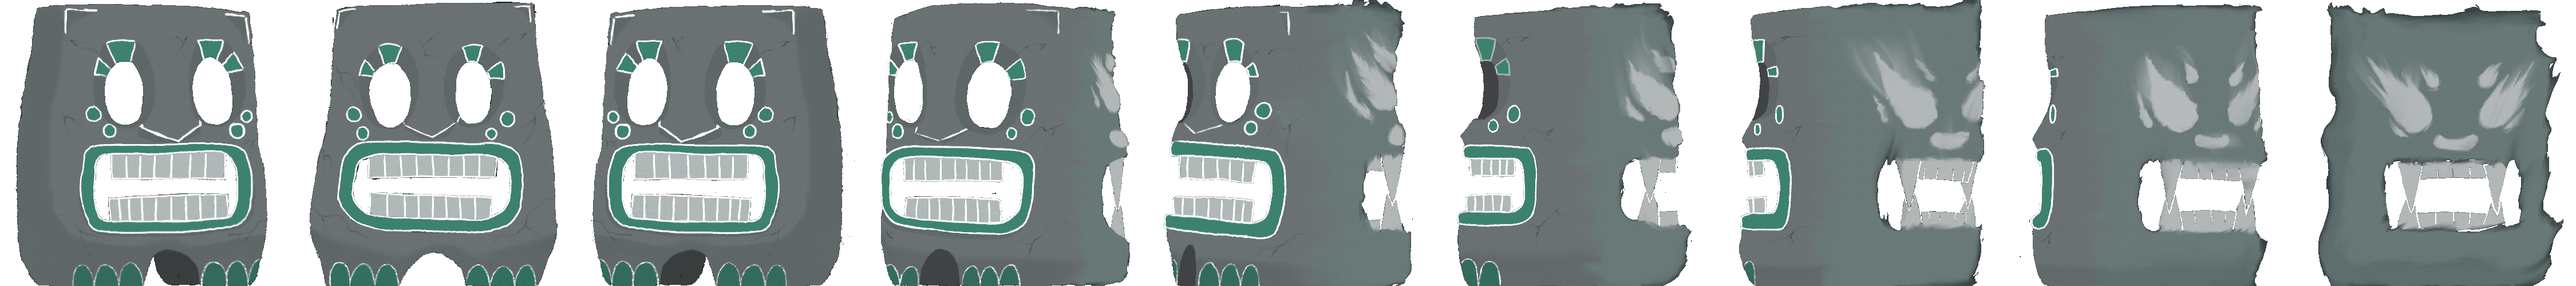
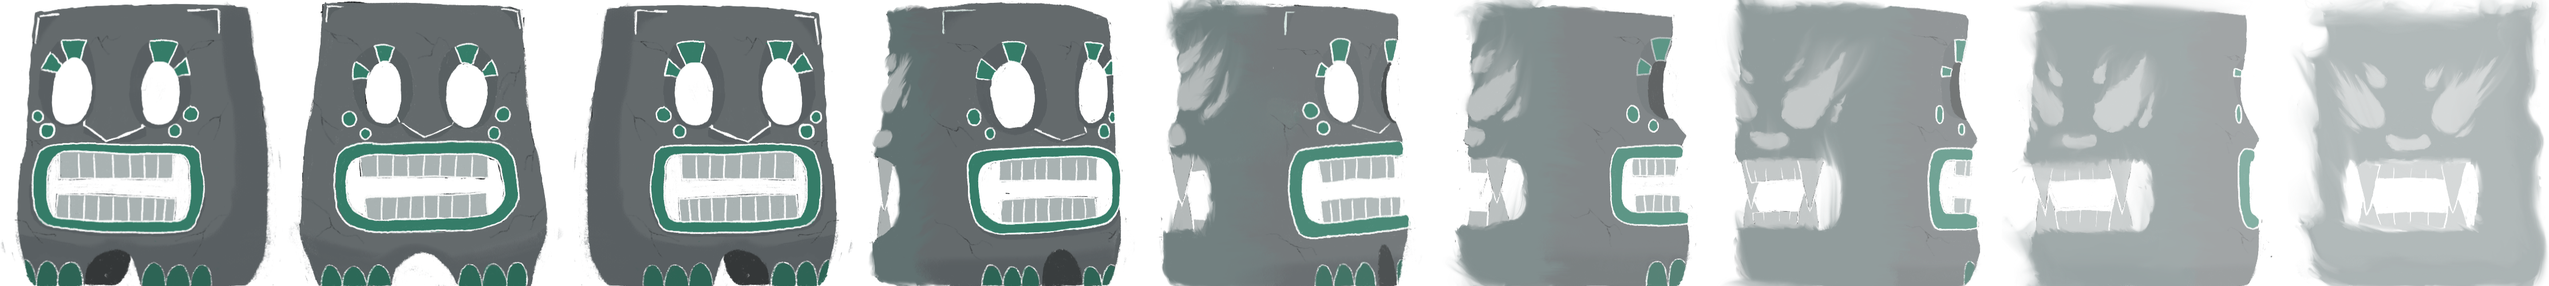
Added advanced totem animations

diff --git a/Physics/Physics/core/src/main/java/edu/cornell/cis3152/physics/level_player/enemies/Totem.java b/Physics/Physics/core/src/main/java/edu/cornell/cis3152/physics/level_player/enemies/Totem.java
@@ -1,13 +1,11 @@
 package edu.cornell.cis3152.physics.level_player.enemies;
 
-import com.badlogic.gdx.graphics.Color;
 import com.badlogic.gdx.graphics.Texture;
 import com.badlogic.gdx.math.Vector2;
 import com.badlogic.gdx.physics.box2d.BodyDef;
 import com.badlogic.gdx.utils.JsonValue;
 import edu.cornell.gdiac.assets.AssetDirectory;
 import edu.cornell.gdiac.graphics.SpriteBatch;
-import edu.cornell.gdiac.graphics.SpriteSheet;
 
 import java.util.HashSet;
 import java.util.Set;
@@ -21,32 +19,113 @@ public class Totem extends Enemy {
 
     public static final int FRAME_SIZE = 500;
     public static final int TRANSITION_TOTAL_FRAMES = 9;
-    public static final int IDLE_TOTAL_FRAMES = 12;
-    public static final int LIGHT_FRAME = 0;
+    public static final int IDLE_TOTAL_FRAMES = 7;
+    public static final int FREEZE_TOTAL_FRAMES = 9;
     private static final int TRANSITION_FRAME_DURATION = 12;
-    private static final int IDLE_FRAME_DURATION = 9;
+    private static final int REVERSE_FRAME_DURATION = 12;
+    private static final int IDLE_FRAME_DURATION = 12;
+    private static final int FREEZE_FRAME_DURATION = 3;
     private final Texture transitionAnimationTexture = directory.getEntry("platform-totemLIGHTANIMATION", Texture.class);
+    private final Texture reverseTransitionTexture = directory.getEntry("platform-totemOUTLIGHTANIMATION", Texture.class);
     private final Texture idleAnimationTexture = directory.getEntry("platform-totemIDLEANIMATION", Texture.class);
+    private final Texture freezeLeftAnimationTexture = directory.getEntry("platform-totemFREEZELEFTANIMATION", Texture.class);
+    private final Texture freezeRightAnimationTexture = directory.getEntry("platform-totemFREEZERIGHTANIMATION", Texture.class);
+    private final boolean visited;
+    private final List<Totem> linkedTotems = new ArrayList<>();
+    protected EnemyState previousState = EnemyState.OUT_OF_LIGHT;
     private int cdFrameCount = 0;
     private int frameIndex = 0;
-
     private int idleFrameCount = 0;
     private int idleFrameIndex = 0;
-    private final boolean visited;
-
-    public List<Totem> getLinkedTotems() {
-        return linkedTotems;
-    }
     /**
      * Time it takes for a totem to transition from a CD state to a OUT_OF_LIGHT state.
      */
     private int freezeTimer;
-    private final List<Totem> linkedTotems = new ArrayList<>();
+    private boolean freezeRight = false;
+    private int reverseFrameCount = 0;
+    private int reverseFrameIndex = 0;
+    private int cooldownTimer = 30;
+    private boolean timerStart = false;
+    public void resetCooldownTimer() {
+        cooldownTimer = 30;
+    }
+    public int getCooldownTimer() {
+        return cooldownTimer;
+    }
+    public void decrementCooldownTimer() {
+        if (getTimerStart()){
+            cooldownTimer--;
+        }
+        if (cooldownTimer == 0){
+            resetFrames();
+            setState(EnemyState.CD);
+            resetCooldownTimer();
+            stopTimer();
+        }
+    }
 
+    public boolean getTimerStart(){
+        return timerStart;
+    }
+
+    public void beginTimer(){
+        timerStart = true;
+    }
+
+    public void stopTimer(){
+        timerStart = false;
+    }
     public Totem(int id, float units, JsonValue value, AssetDirectory directory, Vector2 position) {
         super(id, units, value, directory, position);
         visited = false;
         setJustCollided(false);
+    }
+
+    @Override
+    public void update() {
+        decrementCooldownTimer();
+        super.update();
+    }
+
+    public int getCdFrameCount() {
+        return cdFrameCount;
+    }
+
+    public int getIdleFrameCount() {
+        return idleFrameCount;
+    }
+
+    public int getReverseFrameCount() {
+        return reverseFrameCount;
+    }
+
+    public EnemyState getPreviousState() {
+        return previousState;
+    }
+
+    @Override
+    public void setState(EnemyState newState) {
+        if (this.getState() != EnemyState.IN_LIGHT){
+            previousState = this.getState();
+        }
+        super.setState(newState);
+    }
+public boolean locked = false;
+    public void lockFreeze(){
+        locked = true;
+    }
+
+    public void unlockFreeze(){
+        locked = false;
+    }
+    public void setFreezeRight(boolean freezeRight) {
+        if (!locked){
+            this.freezeRight = freezeRight;
+        }
+    }
+
+    public List<Totem> getLinkedTotems() {
+        return linkedTotems;
     }
 
     public int getFreezeTimer() {
@@ -64,6 +143,10 @@ public class Totem extends Enemy {
     private void resetFrames() {
         cdFrameCount = 0;
         frameIndex = 0;
+    }
+
+    private void resetReverseFrames() {
+        reverseFrameCount = 0;
     }
 
     private void resetIdleFrames() {
@@ -122,12 +205,29 @@ public class Totem extends Enemy {
     @Override
     public void in_light() {
         stop();
-        resetIdleFrames();
-        resetFrames();
+        if (getPreviousState() == EnemyState.CD) {
+            if (reverseFrameIndex > 0) {
+                reverseFrameCount++;
+                if (reverseFrameCount > REVERSE_FRAME_DURATION){
+                    reverseFrameCount = 0;
+                    reverseFrameIndex--;
+                }
+                frameIndex = reverseFrameIndex;
+            } else {
+                previousState = EnemyState.IN_LIGHT;
+            }
+        } else {
+            cdFrameCount++;
+            frameIndex = (cdFrameCount / FREEZE_FRAME_DURATION);
+            if (frameIndex >= FREEZE_TOTAL_FRAMES) {
+                frameIndex = FREEZE_TOTAL_FRAMES - 1;
+            }
+        }
     }
 
     @Override
     public void out_of_light() {
+        unlockFreeze();
         propagateDirection(this.faceRight, new HashSet<>());
         obstacle.setBodyType(BodyDef.BodyType.DynamicBody);
         move();
@@ -137,6 +237,7 @@ public class Totem extends Enemy {
             idleFrameCount = 0;
         }
         resetFrames();
+        resetReverseFrames();
     }
 
     @Override
@@ -144,15 +245,34 @@ public class Totem extends Enemy {
         float drawX = obstacle.getX() - getWidth() / 2f;
         float drawY = obstacle.getY() - getHeight() / 2f;
         int srcIndex;
+        System.out.println(getState() + ": ");
         switch (getState()) {
             case CD:
                 srcIndex = frameIndex * FRAME_SIZE;
-                batch.draw(transitionAnimationTexture, drawX * getUnits(), drawY * getUnits(), getUnits(), getUnits(), srcIndex, 0, FRAME_SIZE, FRAME_SIZE, !isFacingRight(), false);
+                batch.draw(transitionAnimationTexture, drawX * getUnits(), drawY * getUnits(), getUnits(), getUnits(), srcIndex, 0, FRAME_SIZE, FRAME_SIZE, isFacingRight(), false);
                 break;
+
             case IN_LIGHT:
-                srcIndex = LIGHT_FRAME * FRAME_SIZE;
-                batch.draw(transitionAnimationTexture, drawX * getUnits(), drawY * getUnits(), getUnits(), getUnits(), srcIndex, 0, FRAME_SIZE, FRAME_SIZE, !isFacingRight(), false);
+                if (getPreviousState() == EnemyState.CD) {
+
+                    srcIndex = reverseFrameIndex * FRAME_SIZE;
+                    batch.draw(transitionAnimationTexture, drawX * getUnits(), drawY * getUnits(), getUnits(), getUnits(), srcIndex, 0, FRAME_SIZE, FRAME_SIZE, isFacingRight(), false);
+                } else {
+                    System.out.println(" 261 ");
+                    srcIndex = Math.min(frameIndex, FREEZE_TOTAL_FRAMES - 1) * FRAME_SIZE;
+                    if (freezeRight && isFacingRight()){
+                        batch.draw(freezeLeftAnimationTexture, drawX * getUnits(), drawY * getUnits(), getUnits(), getUnits(), srcIndex, 0, FRAME_SIZE, FRAME_SIZE, false, false);
+                    } else if (freezeRight && !isFacingRight()){
+                        batch.draw(freezeRightAnimationTexture, drawX * getUnits(), drawY * getUnits(), getUnits(), getUnits(), srcIndex, 0, FRAME_SIZE, FRAME_SIZE, true, false);
+                    } else if (!freezeRight && isFacingRight()){
+                        batch.draw(freezeRightAnimationTexture, drawX * getUnits(), drawY * getUnits(), getUnits(), getUnits(), srcIndex, 0, FRAME_SIZE, FRAME_SIZE, false, false);
+                    } else {
+                        batch.draw(freezeLeftAnimationTexture, drawX * getUnits(), drawY * getUnits(), getUnits(), getUnits(), srcIndex, 0, FRAME_SIZE, FRAME_SIZE, true, false);
+
+                    }
+                }
                 break;
+
             case OUT_OF_LIGHT:
                 srcIndex = idleFrameIndex * FRAME_SIZE;
                 batch.draw(idleAnimationTexture, drawX * getUnits(), drawY * getUnits(), getUnits(), getUnits(), srcIndex, 0, FRAME_SIZE, FRAME_SIZE, !isFacingRight(), false);
@@ -160,14 +280,17 @@ public class Totem extends Enemy {
         }
     }
 
+
     @Override
     public void cd() {
+        unlockFreeze();
         resetIdleFrames();
-
+        resetReverseFrames();
         cdFrameCount++;
         frameIndex = (cdFrameCount / TRANSITION_FRAME_DURATION) % TRANSITION_TOTAL_FRAMES;
+        reverseFrameIndex = frameIndex; // frame that the thing ends with - so total frames
         if (cdFrameCount >= TRANSITION_FRAME_DURATION * TRANSITION_TOTAL_FRAMES) {
-            cdFrameCount = 0;
+            cdFrameCount = 0; // this resets the cdFrame count
         }
         decrementFreezeTimer();
         if (getFreezeTimer() <= 0) {

diff --git a/Physics/Physics/core/src/main/java/edu/cornell/cis3152/physics/level_player/LightController.java b/Physics/Physics/core/src/main/java/edu/cornell/cis3152/physics/level_player/LightController.java
@@ -161,9 +161,9 @@ public class LightController {
 
         torchLighting.setContactFilter(CATEGORY_LIGHT, (short) 0, (short) CATEGORY_ENVIRONMENT);
         //rayHandler.useCustomViewport(viewport.getScreenX(), viewport.getScreenY(), viewport.getScreenWidth(), viewport.getScreenHeight());
-        rayHandler.useDiffuseLight(true);
+//        rayHandler.useDiffuseLight(true);
         // Uncomment if you want no overlay dark hue  ⬇
-//        rayHandler.useDiffuseLight(false);
+        rayHandler.useDiffuseLight(false);
         // Background light color, original hue ⬇
 //        rayHandler.setAmbientLight(0.15f, 0.15f, 0.35f, 1f); // same hue, just darker
         // Background black color ⬇
@@ -229,7 +229,7 @@ public class LightController {
                 lightAssignments.clear();
             }
             Fire fire = (Fire) sprite;
-            System.out.println(fireAssignments.get(fire.fireID)==null);
+//            System.out.println(fireAssignments.get(fire.fireID)==null);
             if (fireAssignments.get(fire.fireID)!=light){//only adds fires when it's not already there
 //                System.out.println("add fire!");
                 light.setColor(Color.YELLOW);
@@ -261,8 +261,8 @@ public class LightController {
                     }
                 }
             }
-        System.out.println("index"+lightIndex);
-        System.out.println(lightInUse[lightIndex]);
+//        System.out.println("index"+lightIndex);
+//        System.out.println(lightInUse[lightIndex]);
             lightIndex = (lightIndex + 1) % maxLights;
         }
 

diff --git a/Physics/Physics/core/src/main/java/edu/cornell/cis3152/physics/level_player/CollisionController.java b/Physics/Physics/core/src/main/java/edu/cornell/cis3152/physics/level_player/CollisionController.java
@@ -233,8 +233,22 @@ public class CollisionController implements ContactListener {
              * While the totem is in light, it changes to the IN_LIGHT state.
              */
             if (isXandY(bd1, bd2, Lighting.class, Totem.class) == 1) {
+                Lighting light = (Lighting) idX(bd1, bd2, Lighting.class);
                 Totem totem = (Totem) idX(bd1, bd2, Totem.class);
-                totem.setState(EnemyState.IN_LIGHT);
+                totem.stopTimer();
+                totem.resetCooldownTimer();
+
+                    if (light.getObstacle().getX() < totem.getObstacle().getX()) {
+                        totem.setFreezeRight(true);
+                        totem.lockFreeze();
+                    } else {
+                        totem.setFreezeRight(false);
+                        totem.lockFreeze();
+                    }
+                    totem.resetFreeze();
+                    totem.setState(EnemyState.IN_LIGHT);
+
+
             }
 
             /**
@@ -564,8 +578,7 @@ public class CollisionController implements ContactListener {
 
         if (isXandY(bd1, bd2, Lighting.class, Totem.class) == 1) {
             Totem totem = (Totem) idX(bd1, bd2, Totem.class);
-                totem.setState(Enemy.EnemyState.CD);
-            totem.resetFreeze();
+            totem.beginTimer();
         }
 
 

diff --git a/Physics/Physics/core/src/main/java/edu/cornell/cis3152/physics/level_player/enemies/Moth.java b/Physics/Physics/core/src/main/java/edu/cornell/cis3152/physics/level_player/enemies/Moth.java
@@ -221,8 +221,6 @@ public class Moth extends Enemy {
         updateFrame(IN_LIGHT_FRAME_DURATION, TOTAL_IN_LIGHT_FRAMES);
         resetAttackTimer();
         if (rr != null) {
-            System.out.println("rr.targetObject: " + ((ObstacleSprite) rr.targetObject).getObstacle().getName());
-            System.out.println(((ObstacleSprite) rr.targetObject).getObstacle().isSensor());
             if (rr.targetObject instanceof Torch && !Avatar.getHasTorch()){
                 setState(EnemyState.TRANCE);
                 resetTranceTimer();
@@ -234,7 +232,7 @@ public class Moth extends Enemy {
                 setState(EnemyState.FRUSTRATED);
             }
         } else {
-            System.out.println("rr is null");
+//            System.out.println("rr is null");
             stop();
         }
     }
@@ -244,7 +242,6 @@ public class Moth extends Enemy {
         if (rr == null || !(rr.targetObject instanceof Avatar)) {
             setState(EnemyState.OUT_OF_LIGHT);
         } else {
-            System.out.println(rr.targetObject);
             if (isAttackTimerZero()) {
                 setState(EnemyState.ATTACK);
             } else { // loops through cd state

diff --git a/Physics/Physics/core/src/main/java/edu/cornell/cis3152/physics/GameplayScene.java b/Physics/Physics/core/src/main/java/edu/cornell/cis3152/physics/GameplayScene.java
@@ -1104,7 +1104,7 @@ public class GameplayScene implements Screen {
                     float y = (18 * 300 - object.getFloat("y")) / levelData.getInt("tileheight");
                     if (objName.contains("light")) {
                         FloatingLight light = new FloatingLight(units,new Vector2(x,y),1,goalPos);
-                        System.out.println("floating light: " + (int)x+","+ (int)y);
+//                        System.out.println("floating light: " + (int)x+","+ (int)y);
                         light.getObstacle().setPosition(x,y);
                         floatingLights.add(light);
                         addSprite(light);
@@ -1408,7 +1408,7 @@ public class GameplayScene implements Screen {
     @SuppressWarnings("unchecked")
     private void updateRunes(float dt) {
         for (Rune rune : runeSet) {
-            System.out.println(rune.getPowerLevel());
+//            System.out.println(rune.getPowerLevel());
             if (!rune.returnInLight()) {
                 rune.dissapatePowerLevel();
             }

diff --git a/Physics/Physics/core/src/main/java/edu/cornell/cis3152/physics/level_player/enemies/Enemy.java b/Physics/Physics/core/src/main/java/edu/cornell/cis3152/physics/level_player/enemies/Enemy.java
@@ -178,6 +178,10 @@ public class Enemy extends ObstacleSprite {
 
 
     public void update() {
+//        if (this instanceof Totem){
+//            System.out.println(getState() + " | idle: " + ((Totem)this).getIdleFrameCount() + " | cd: "  +
+//                ((Totem)this).getCdFrameCount() + " | reverse: " + ((Totem)this).getReverseFrameCount());
+//        }
         updateRayCast();
         switch (state) {
             case OUT_OF_LIGHT:
